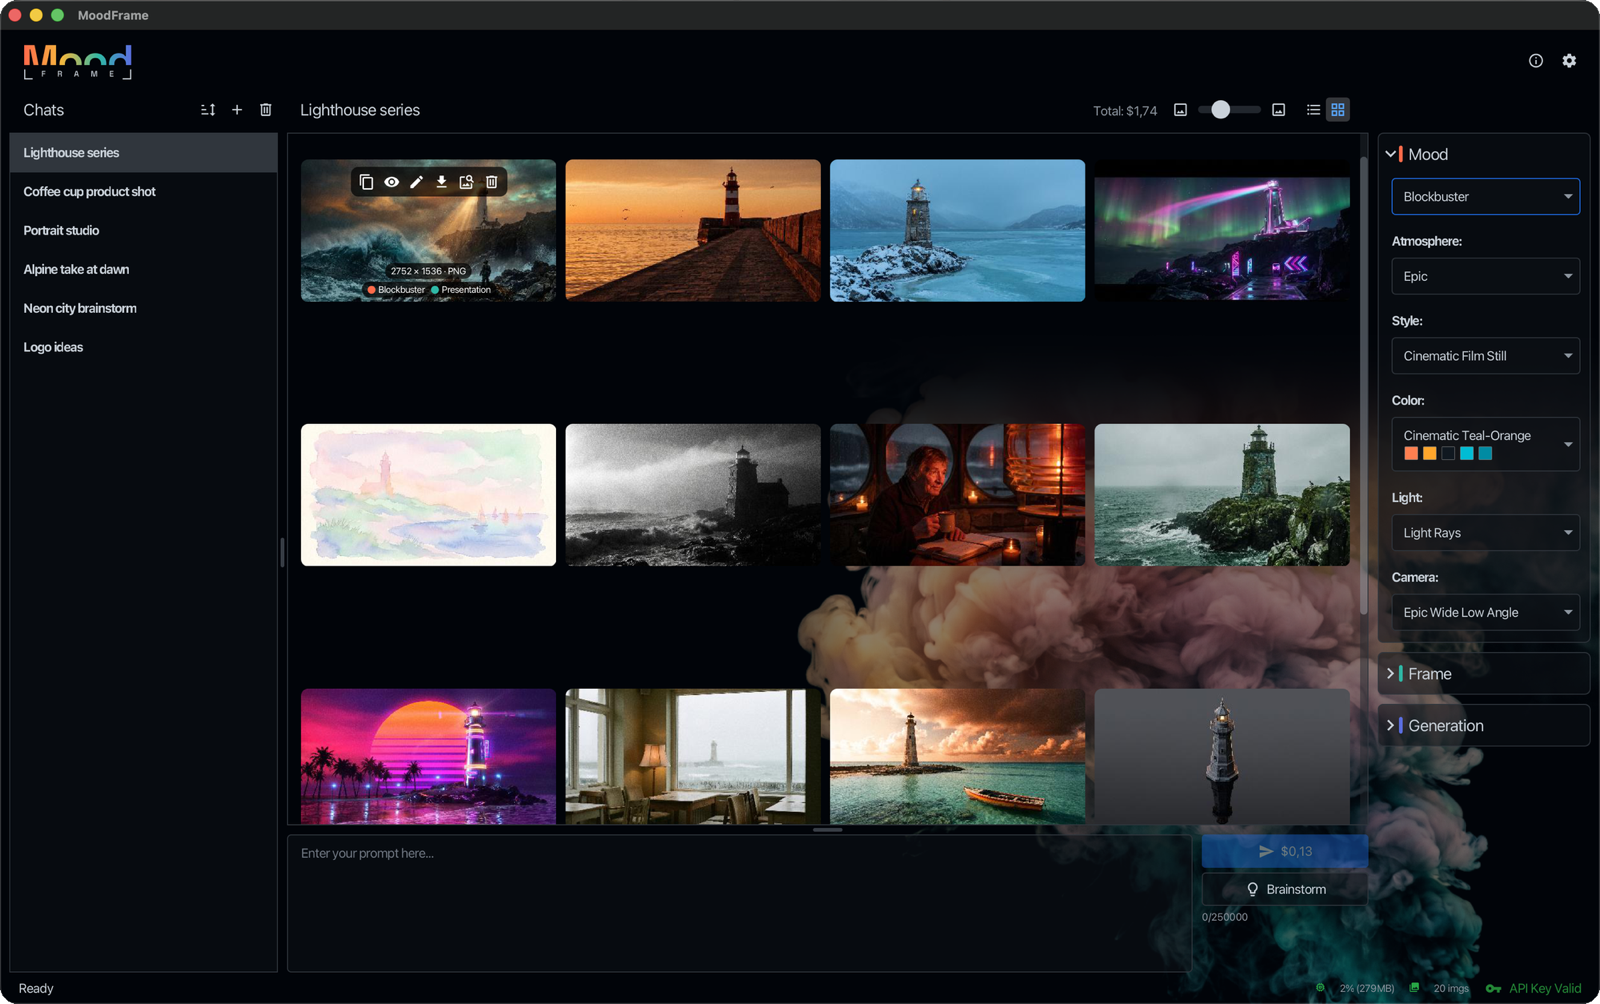
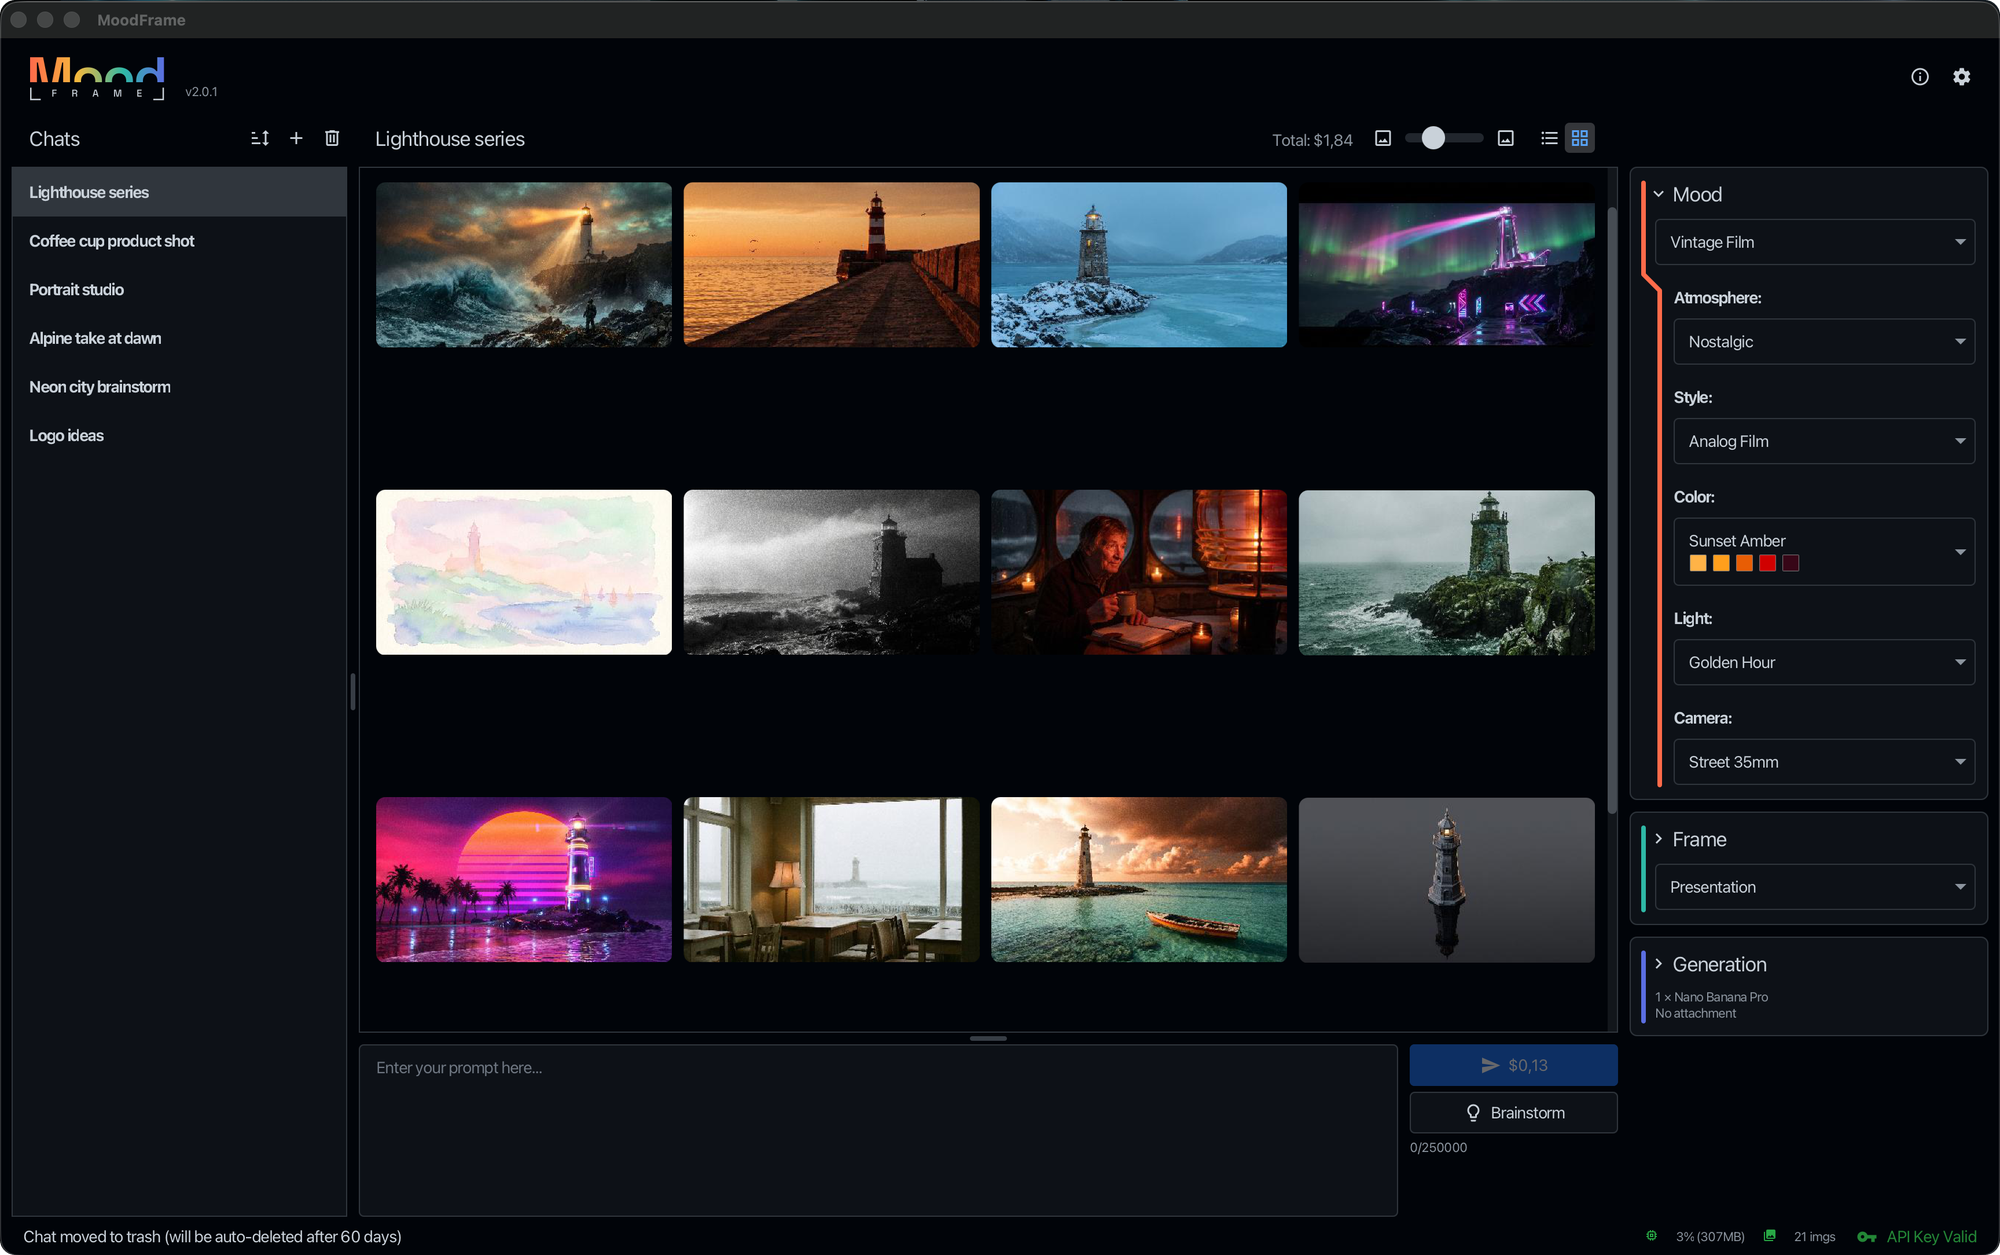
Squashed commit of the following:
commit ce63f5017de1b6d7dd7c712be78814e10bc8dafe
Author: Matthias Brusdeylins <13226362+Brusdeylins@users.noreply.github.com>
Date:   Mon Nov 16 13:42:20 2026 +0100

    UPDATE: Replace website overview screenshot with new sidebar and realign callout anchors

diff --git a/website/index.html b/website/index.html
@@ -61,21 +61,21 @@
         <figure class="card overview-figure" style="margin-inline: 0">
             <svg viewBox="-12 0 1272 625" role="img" aria-labelledby="overview-desc">
                 <desc id="overview-desc" data-i18n="overview.alt">The MoodFrame main window with the library, the images, the prompt, and the groups Mood, Frame and Generation</desc>
-                <image href="assets/img/app-screenshot.png?v=20261116a" x="194" y="30" width="860" height="540"/>
+                <image href="assets/img/app-screenshot.png?v=20261116b" x="194" y="30" width="860" height="540"/>
                 <g stroke-width="1" fill="none">
                     <line x1="182" y1="112" x2="199" y2="112" stroke="rgb(255 255 255 / 45%)"/>
-                    <line x1="182" y1="184" x2="372" y2="184" stroke="rgb(255 255 255 / 45%)"/>
+                    <polyline points="372,165 208,165 190,184 182,184" stroke="rgb(255 255 255 / 45%)"/>
                     <line x1="182" y1="506" x2="496" y2="506" stroke="rgb(255 255 255 / 45%)"/>
                     <line x1="1010" y1="113" x2="1066" y2="113" stroke="#ff6b4a"/>
-                    <polyline points="1010,392 1040,392 1058,372 1066,372" stroke="#2fb8a6"/>
-                    <polyline points="1010,420 1040,420 1058,445 1066,445" stroke="#5b6ee1"/>
-                    <polyline points="926,508 1040,508 1058,548 1066,548" stroke="rgb(255 255 255 / 45%)"/>
+                    <polyline points="1010,391 1040,391 1058,372 1066,372" stroke="#2fb8a6"/>
+                    <line x1="1010" y1="445" x2="1066" y2="445" stroke="#5b6ee1"/>
+                    <polyline points="886,508 1040,508 1058,548 1066,548" stroke="rgb(255 255 255 / 45%)"/>
                 </g>
                 <g stroke="#0d1a1e" stroke-width="2">
-                    <circle cx="199" cy="112" r="5" fill="#ffffff"/><circle cx="372" cy="184" r="5" fill="#ffffff"/>
+                    <circle cx="199" cy="112" r="5" fill="#ffffff"/><circle cx="372" cy="165" r="5" fill="#ffffff"/>
                     <circle cx="496" cy="506" r="5" fill="#ffffff"/><circle cx="1010" cy="113" r="5" fill="#ff6b4a"/>
-                    <circle cx="1010" cy="392" r="5" fill="#2fb8a6"/><circle cx="1010" cy="420" r="5" fill="#5b6ee1"/>
-                    <circle cx="926" cy="508" r="5" fill="#ffffff"/>
+                    <circle cx="1010" cy="391" r="5" fill="#2fb8a6"/><circle cx="1010" cy="445" r="5" fill="#5b6ee1"/>
+                    <circle cx="886" cy="508" r="5" fill="#ffffff"/>
                 </g>
                 <g text-anchor="end">
                     <text x="174" y="117" class="callout-title" data-i18n="feature.library">Library</text>
@@ -103,7 +103,7 @@
                     <text x="1074" y="591" class="callout-text" data-i18n="feature.brainstorm.2">with an AI assistant</text>
                 </g>
             </svg>
-            <img class="shot" src="assets/img/app-screenshot.png?v=20261116a" alt="" width="1600" height="1004" loading="lazy">
+            <img class="shot" src="assets/img/app-screenshot.png?v=20261116b" alt="" width="2000" height="1255" loading="lazy">
             <ul class="overview-list">
                 <li><span><b data-i18n="feature.library">Library</b> · <span data-i18n="feature.library.full">Chats, or all images of a mood or frame</span></span></li>
                 <li><span><b data-i18n="feature.images">Images</b> · <span data-i18n="feature.images.full">view in detail, use as reference, or delete</span></span></li>
